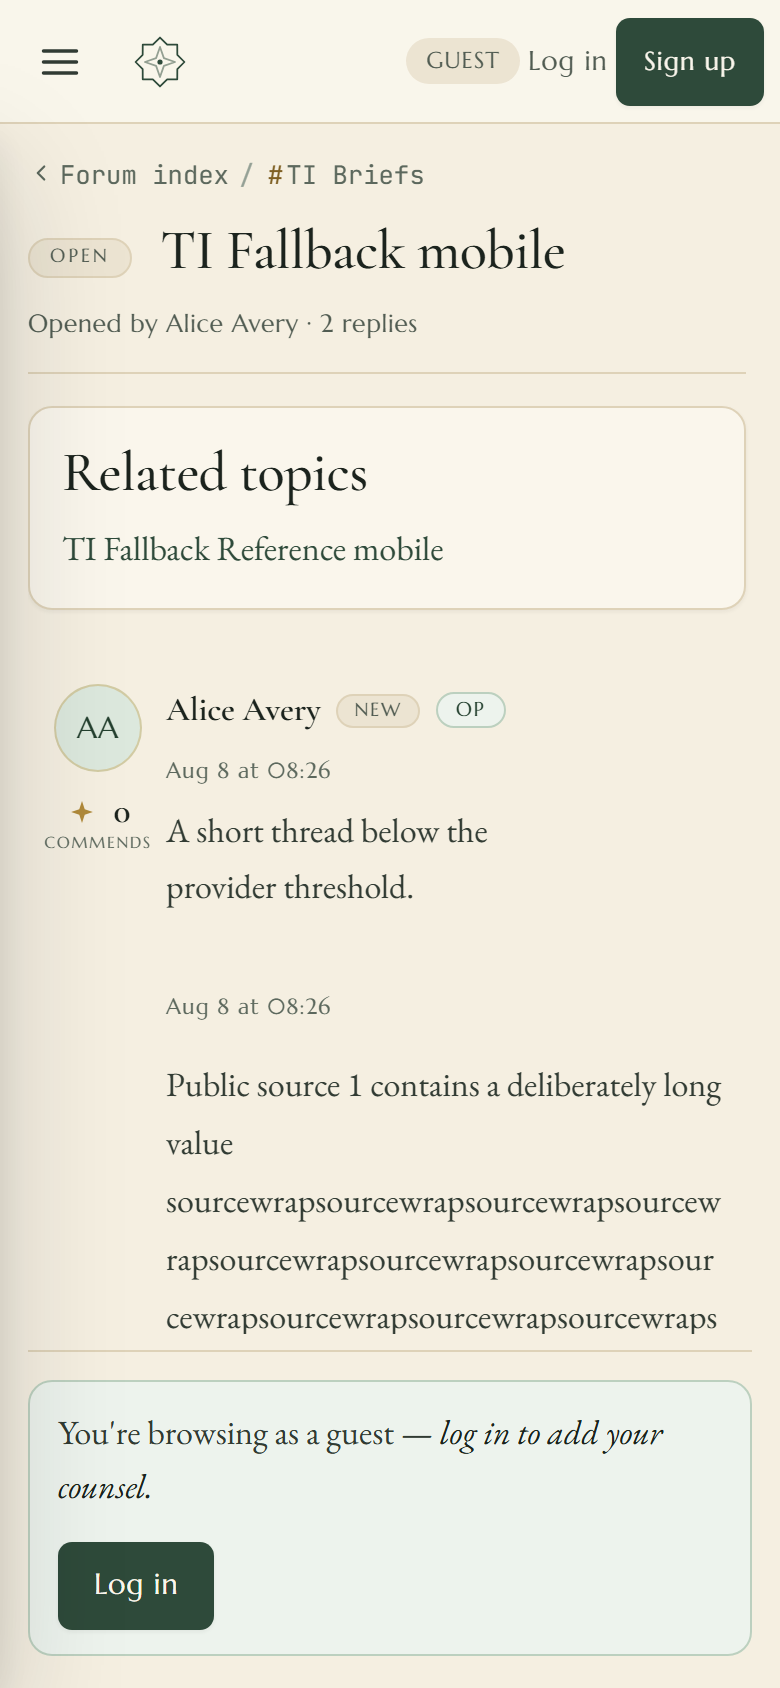
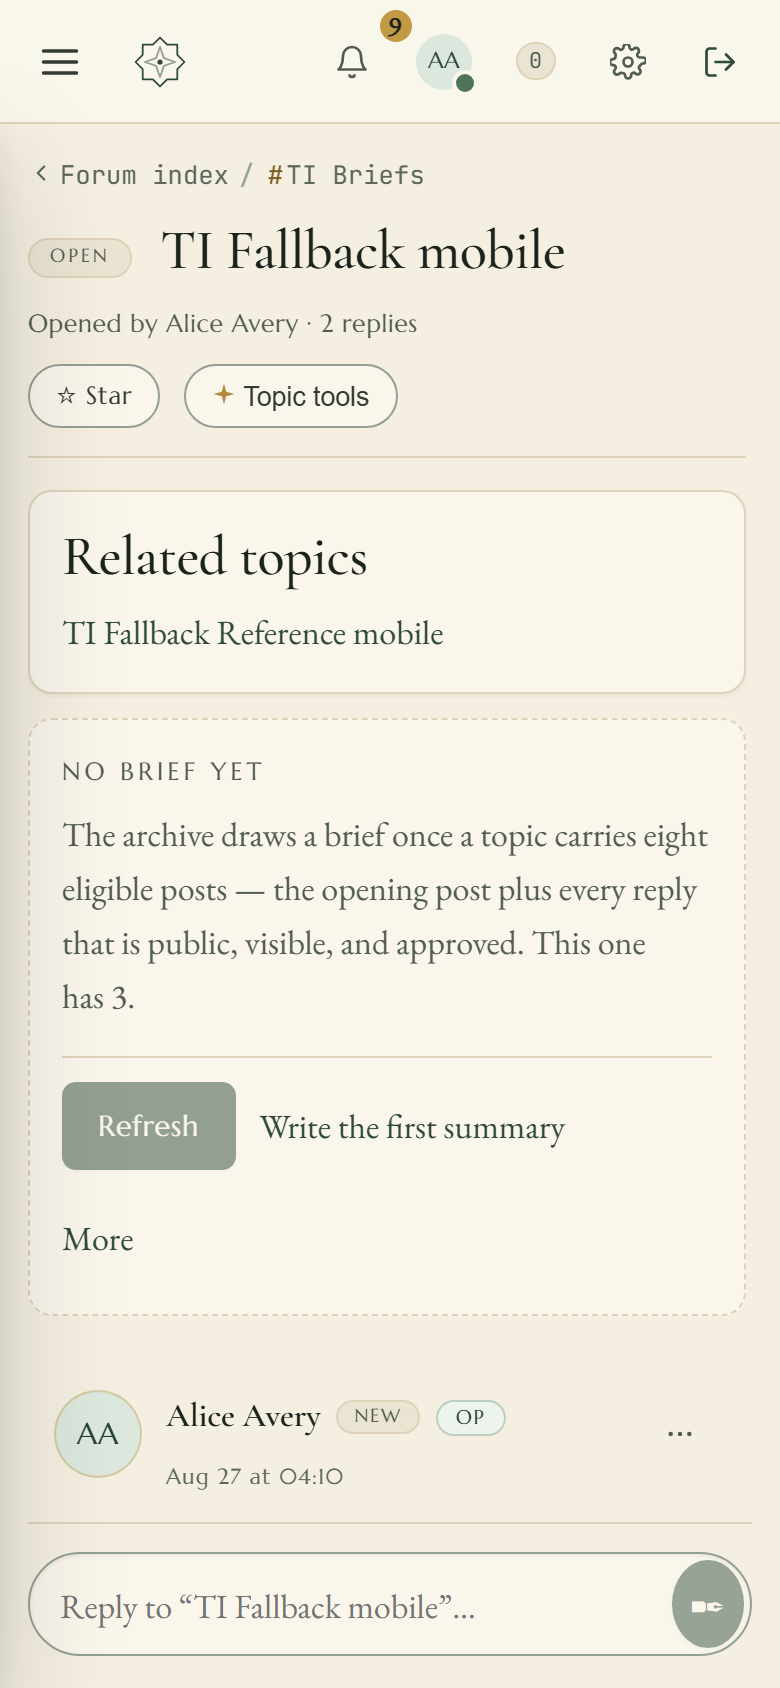
test(living-brief): re-capture browser evidence for the redesigned brief
Captured by `npm run evidence`'s second group on desktop and mobile, against a
freshly prepared database, with `thread-intelligence.spec.ts` green (18/18).

- `75-thread-intelligence-fallback` is now taken as a curator, so it shows the
  new curator-only empty panel — "No brief yet", the eligibility-count sentence
  with this topic's real numbers, and a disabled Refresh — beside the
  deterministic related-topic fallback it has always recorded. The spec asserts
  first that a member without curator authority sees the fallback alone.
- `76-living-brief` is the member's view: a brief with no tools attached.
- `77-living-brief-curator-controls` moves from the Topic tools drawer to the
  foot of the brief, with the Amend composer and the More disclosure open so the
  version history, the related-topic form, Pause, and the Retire confirm are all
  in frame.
- `78-living-brief-last-good` now shows the budget denial where the redesign put
  it: under the curator's own disabled Refresh, rather than inside the drawer.
- `79-admin-thread-intelligence` is unchanged in substance and re-captured with
  the rest of the group.

`81-thread-tools` is deliberately not re-captured: it records the drawer with
every section collapsed, so the Memory section's new contents are out of frame
and a pixel comparison of a fresh capture against the committed one is identical.

Both READMEs are corrected: the evidence index no longer says 77 records "curator
[…]

diff --git a/tests/browser/README.md b/tests/browser/README.md
@@ -52,7 +52,7 @@ harness grows. The current branch also captures:
 - `46-profile-media-avatar`, `47-profile-media-moderation` (`profile_media` member avatar/signature flow plus admin moderation controls; graduated to default-on 2026-07-03)
 - `48-custom-emoji-admin`, `49-custom-emoji-thread` (`custom_emoji` admin catalogue, Markdown rendering, and reaction compatibility; graduated to default-on 2026-07-03)
 - `50-split-merge-panel`, `51-thread-merged` (the Study split/merge modal and the merged topic result)
-- `75-thread-intelligence-fallback`, `76-living-brief`, `77-living-brief-curator-controls`, `78-living-brief-last-good`, `79-admin-thread-intelligence` (Thread Intelligence fallback, generated provenance, curator lifecycle in the Study Memory section, last-good guardrails, and operator recovery evidence; captured before and reverified after the default-on flip)
+- `75-thread-intelligence-fallback`, `76-living-brief`, `77-living-brief-curator-controls`, `78-living-brief-last-good`, `79-admin-thread-intelligence` (Thread Intelligence fallback beside the curator-only empty panel, generated provenance as a member sees it, the curator footer at the foot of the brief with its Amend and More disclosures open, last-good guardrails, and operator recovery evidence; captured before and reverified after the default-on flip, and re-captured for the Living Brief redesign that moved curation out of the Topic tools drawer)
 - `group-dms-01…06` desktop+mobile and `group-dms-07-no-js` (`group_dms` graduated to default-on 2026-07-18, ADR 0022: group creation with the details rail, 422 validation draft preservation, owner tools + group history, the late joiner's membership-interval view, the departed member's read-only view, the staff report queue with the report-only 404 proof, and the JavaScript-disabled create/:target-rail/mute/report pass — driven by `group-dms.spec.ts` with the flag at its GA default, no seed override)
 - `80-thread-study`, `81-thread-tools` (the closed Study reading surface with the new reply shell, and its open desktop drawer/mobile sheet)
 - `82-composer-emoji` (server-backed emoji dialog/grid with remembered insertion in desktop popover and mobile sheet layouts)
@@ -143,6 +143,16 @@ critical WCAG 2A/2AA axe violations.
 
 The same command then runs the Thread Intelligence `no-JS` and `axe` cases.
 Those cases scope scans to the Living Brief, provenance lists, related cards,
-history/curator forms, deterministic fallback, and admin console. Before the
-admin scan they enter the application's theme safe mode and restore it after
-the scan.
+the curator footer with every disclosure open, the curator-only empty panel,
+the Topic tools drawer, the deterministic fallback, and the admin console.
+Before the admin scan they enter the application's theme safe mode and restore
+it after the scan.
+
+Every scan lands the document's running animations first. axe reads the
+composited colour, so a card still inside the brief's entrance fade reports its
+foreground blended toward the surface — on the sunken panel the gold and rust
+inks measure 3.91:1 and 4.07:1 at 89% opacity, and 4.76:1 and 4.90:1 once the
+fade lands. For the same
+reason the `no-JS` case asks its context for reduced motion, and disclosures are
+opened from the keyboard rather than clicked: with no script engine driving the
+frame loop, Playwright's pointer actionability sampling stalls against the fade.

diff --git a/docs/evidence/browser/README.md b/docs/evidence/browser/README.md
@@ -54,4 +54,8 @@ surface including its reply shell and `81-thread-tools` for the open Topic tools
 journeys now capture their controls in the Study locations: `29-topic-workflow`
 uses Standing, Watch, and Topic management; `50-split-merge-panel` records the
 restructure modal; `51-thread-merged` records its merged result; and
-`77-living-brief-curator-controls` records curator forms in the Memory section.
+`77-living-brief-curator-controls` records the curator footer at the foot of the
+brief itself — the Memory section of the drawer now holds only the anchor that
+jumps to it — with its Amend composer and More disclosure open, and
+`75-thread-intelligence-fallback` records the curator-only empty panel beside
+the deterministic fallback.
